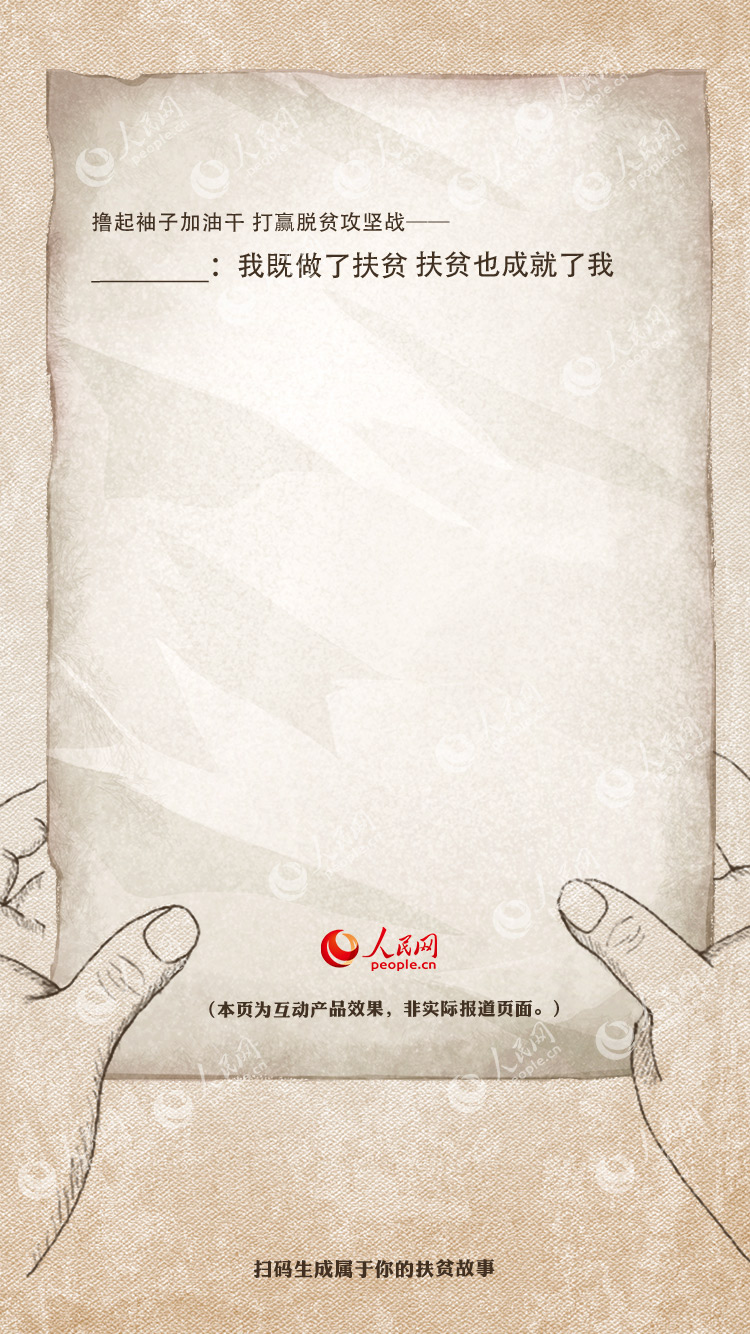
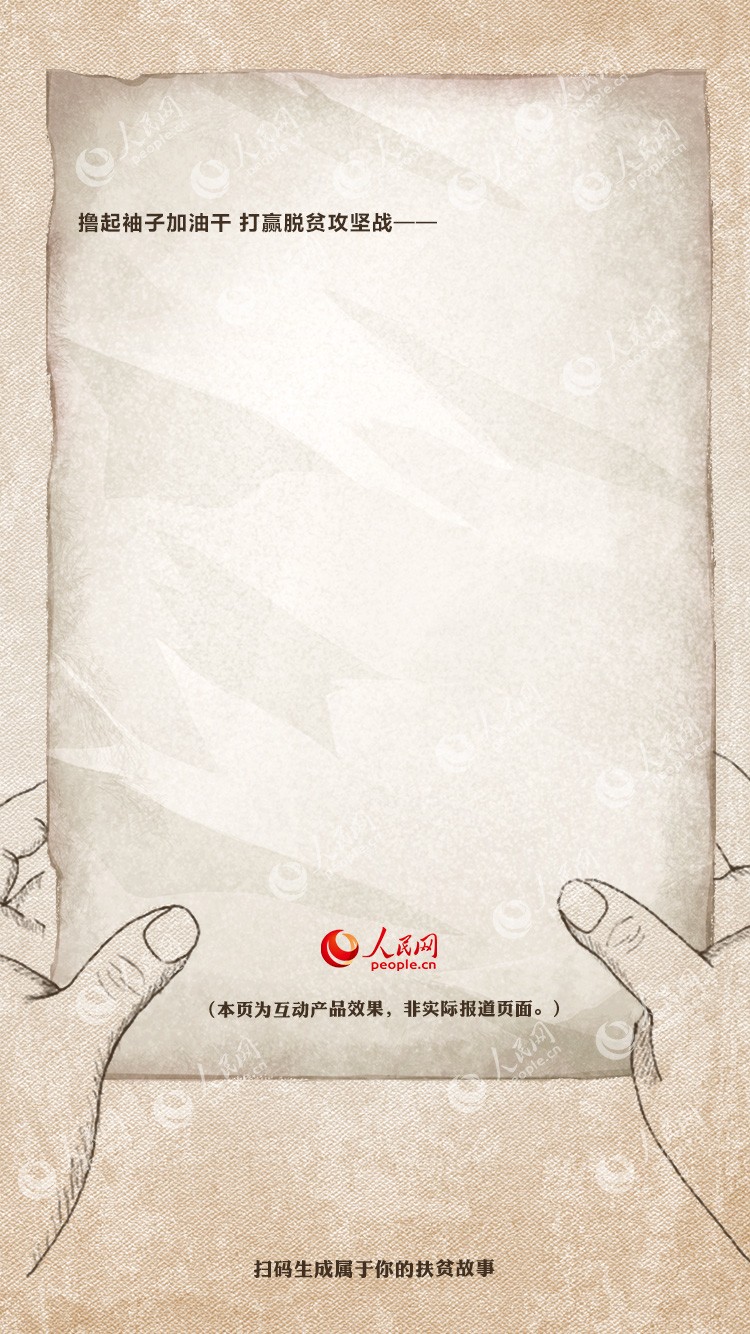
save

Changed region(s): [[0.092, 0.1537, 0.828, 0.2151]]

diff --git a/dist/index.html b/dist/index.html
@@ -36,23 +36,23 @@
     <!-- 页面[page2]-->
     <div class="page2 page" template="page2" style="display: none;"><div class="so so-0"><span class="so so-1">贵州</span><span class="so so-2">山西</span><span class="so so-3">新疆</span><span class="so so-4">安徽</span><span class="so so-5">陕西</span><span class="so so-6">山东</span><img class="so so-7" src="./static/resource/255.png" o-animation="shrink" o-tap="next('贵州')"><img class="so so-8" src="./static/resource/269.png" o-animation="shrink" o-tap="next('陕西')"><img class="so so-9" src="./static/resource/281.png" o-animation="shrink" o-tap="next('安徽')"><img class="so so-10" src="./static/resource/289.png" o-animation="shrink" o-tap="next('山东')"><img class="so so-11" src="./static/resource/301.png" o-animation="shrink" o-tap="next('山西')"><img class="so so-12" src="./static/resource/311.png" o-animation="shrink" o-tap="next('新疆')"></div></div>
     <!-- 页面[page3]-->
-    <div class="page3 page" template="page3" style="display: none;"><div class="so so-0"><img class="so so-1" src="./static/resource/96.png"><div class="so so-2"><img class="so so-3" src="./static/resource/test.gif"><img class="so so-4" src="./static/resource/97.png" o-tap="next('page4')"></div><div class="so so-5"><img class="so so-6" src="./static/resource/99.png"><img class="so so-7" src="./static/resource/101.png" o-tap="next"></div></div></div>
+    <div class="page3 page" template="page3" style="display: none;"><div class="so so-0"><img class="so so-1" src="./static/resource/96.png"><div class="so so-2"><img class="so so-3" src="./static/resource/98.png"><img class="so so-4" src="./static/resource/97.png" o-tap="next('到村民家走访，了解每一户的生活生产现状，挖掘村民需求，找到致贫根源。')"></div><div class="so so-5"><img class="so so-6" src="./static/resource/99.png"><img class="so so-7" src="./static/resource/101.png" o-tap="next('统计生产数据，了解当地风俗、气候、地理区委条件等，找到致富切入点。')"></div></div></div>
     <!-- 页面[page4]-->
     <div class="page4 page" template="page4" style="display: none;"><div class="so so-0"><img class="so so-1" src="./static/resource/page4-100.png"><img class="so so-2" src="./static/resource/page4-99.png"><img class="so so-3" src="./static/resource/page4-101.png"></div></div>
     <!-- 页面[page5]-->
-    <div class="page5 page" template="page5" style="display: none;"><div class="so so-0"><img class="so so-1" src="./static/resource/page5-100.png"><img class="so so-2" src="./static/resource/page5-101.png"><img class="so so-3" src="./static/resource/page5-107.png"><img class="so so-4" src="./static/resource/page5-108.png"><img class="so so-5" src="./static/resource/page5-109.png" o-tap="next"><img class="so so-6" src="./static/resource/page5-112.png" o-tap="next"><img class="so so-7" src="./static/resource/page5-113.png"></div></div>
+    <div class="page5 page" template="page5" style="display: none;"><div class="so so-0"><img class="so so-1" src="./static/resource/page5-100.png"><img class="so so-2" src="./static/resource/page5-101.png"><img class="so so-3" src="./static/resource/page5-107.png"><img class="so so-4" src="./static/resource/page5-108.png"><img class="so so-5" src="./static/resource/page5-109.png" o-tap="next('建设现代产业园，打造光伏发电基地。')"><img class="so so-6" src="./static/resource/page5-112.png" o-tap="next('搭建优质农产品推广平台，助力农业生产转型升级。')"><img class="so so-7" src="./static/resource/page5-113.png"></div></div>
     <!-- 页面[page6]-->
-    <div class="page6 page" template="page6" style="display: none;"><div class="so so-0"><img class="so so-1" src="./static/resource/page6-97.png"><img class="so so-2" src="./static/resource/page6-98.png" o-tap="next"><img class="so so-3" src="./static/resource/page6-99.png" o-tap="next"><img class="so so-4" src="./static/resource/page6-100.png"><img class="so so-7" src="./static/resource/page6-106.png"><img class="so so-8" src="./static/resource/page6-105.png"></div></div>
+    <div class="page6 page" template="page6" style="display: none;"><div class="so so-0"><img class="so so-1" src="./static/resource/page6-97.png"><img class="so so-2" src="./static/resource/page6-98.png" o-tap="next('联合相关机构开展培训班，组织督促村民参与学习，通过扶智来扶志，实现脱贫不返贫。')"><img class="so so-3" src="./static/resource/page6-99.png" o-tap="next('与大城市的农产品龙头企业建立合作，培养人才，形成产销一条龙，为村集体实现创收。')"><img class="so so-4" src="./static/resource/page6-100.png"><img class="so so-7" src="./static/resource/page6-106.png"><img class="so so-8" src="./static/resource/page6-105.png"></div></div>
     <!-- 页面[page7]-->
-    <div class="page7 page" template="page7" style="display: none;"><div class="so so-0"><img class="so so-1" src="./static/resource/page7-53.png"><img class="so so-2" src="./static/resource/page7-51.png" o-tap="next"><img class="so so-3" src="./static/resource/page7-49.png" o-tap="next"><img class="so so-4" src="./static/resource/page7-47.png"></div></div>
+    <div class="page7 page" template="page7" style="display: none;"><div class="so so-0"><img class="so so-1" src="./static/resource/page7-53.png"><img class="so so-2" src="./static/resource/page7-51.png" o-tap="next('亲自担任了村里的农产品代言人，参与直播带货，推动农产品销售，增加了村民们的收入。')"><img class="so so-3" src="./static/resource/page7-49.png" o-tap="next('为村里的农产品注册了品牌，成立了推广协会，进一步为村里打造“明星产品”')"><img class="so so-4" src="./static/resource/page7-47.png"></div></div>
     <!-- 页面[page8]-->
-    <div class="page8 page" template="page8" style="display: none;"><div class="so so-0"><img class="so so-1" src="./static/resource/88.png" o-tap="next"><img class="so so-2" src="./static/resource/87.png" o-tap="next"><img class="so so-3" src="./static/resource/86.png"><img class="so so-4" src="./static/resource/95.png"><img class="so so-5" src="./static/resource/94.png"><img class="so so-6" src="./static/resource/93.png"><img class="so so-7" src="./static/resource/92.png"></div></div>
+    <div class="page8 page" template="page8" style="display: none;"><div class="so so-0"><img class="so so-1" src="./static/resource/88.png" o-tap="next('联合相关机构开展培训班，组织督促村民参与学习，通过扶智来扶志，实现脱贫不返贫。')"><img class="so so-2" src="./static/resource/87.png" o-tap="next('与大城市的农产品龙头企业建立合作，培养人才，形成产销一条龙，为村集体实现创收。')"><img class="so so-3" src="./static/resource/86.png"><img class="so so-4" src="./static/resource/95.png"><img class="so so-5" src="./static/resource/94.png"><img class="so so-6" src="./static/resource/93.png"><img class="so so-7" src="./static/resource/92.png"></div></div>
     <!-- 页面[page9]-->
-    <div class="page9 page" template="page9" style="display: none;"><div class="so so-0"><img class="so so-1" src="./static/resource/page9-32.png"><img class="so so-2" src="./static/resource/page9-42.png" o-tap="next"><img class="so so-3" src="./static/resource/page9-41.png"></div></div>
+    <div class="page9 page" template="page9" style="display: none;"><div class="so so-0"><img class="so so-1" src="./static/resource/page9-32.png"><img class="so so-2" src="./static/resource/page9-42.png" o-tap="next" o-animation="shrink"><img class="so so-3" src="./static/resource/page9-41.png"></div></div>
     <!-- 页面[page10]-->
     <div class="page10 page" template="page10" style="display: none;"><div class="so so-0"><img class="so so-1" src="./static/resource/page10-112.png"><img class="so so-2" src="./static/resource/page10-111.png"><img class="so so-3 car-ani" src="./static/resource/page10-108.png"><img class="so so-4" src="./static/resource/page10-107.png"><img class="so so-6" src="./static/resource/page10-105.png"><img class="so so-7" src="./static/resource/page10-104.png"><div class="text">辗转几个小时车程后，你终于来到了位于（河北/山东/山西/陕西/贵州/安徽/新疆）的贫困村。</div></div></div>
     <!-- 页面[page11]-->
-    <div class="page11 page" template="page11" style="display: none;"><img class="bg" src="./static/resource/page11.jpg"></div></div>
+    <div class="page11 page" template="page11" style="display: none;"><img class="bg" src="./static/resource/page11.jpg"><h2>你的名字：我既做了扶贫 扶贫也成就了我</h2><p></p></div></div>
     
 
     <script src="http://tools.people.com.cn/libs/jquery/1.11.1/jquery-1.11.1.min.js" type="text/javascript"  charset="UTF-8"></script>
@@ -177,7 +177,8 @@ owo.script = {
         _this2.query('.so-7').setAttribute('o-animation', 'shrink');
       }, 3200);
     },
-    "next": function next(name) {
+    "next": function next(text) {
+      owo.state.text1 = text;
       owo.go('page4//fade/moveFromRight/true/fade/moveFromLeft');
     }
   },
@@ -190,26 +191,33 @@ owo.script = {
     }
   },
   "page5": {
-    "next": function next(name) {
+    "next": function next(text) {
+      owo.state.text2 = text;
       owo.go('page6//fade/moveFromRight/true/fade/moveFromLeft');
     }
   },
   "page6": {
-    "next": function next(name) {
+    "next": function next(text) {
+      owo.state.text3 = text;
       owo.go('page7//fade/moveFromRight/true/fade/moveFromLeft');
     }
   },
   "page7": {
-    "next": function next(name) {
+    "next": function next(text) {
+      owo.state.text4 = text;
       owo.go('page8//fade/moveFromRight/true/fade/moveFromLeft');
     }
   },
   "page8": {
-    "next": function next(name) {
+    "next": function next(text) {
+      owo.state.text5 = text;
       owo.go('page9//fade/moveFromRight/true/fade/moveFromLeft');
     }
   },
   "page9": {
+    "created": function created() {
+      owo.animate('fadeInRight', this.query('.so-1'));
+    },
     "next": function next(name) {
       owo.go('page11//fade/moveFromRight/true/fade/moveFromLeft');
     }
@@ -224,13 +232,19 @@ owo.script = {
       owo.animate('fadeIn', this.query('.text'), 2800);
       setTimeout(function () {
         owo.go('page3//fade/moveFromRight/true/fade/moveFromLeft');
-      }, 9000);
+      }, 7000);
     }
   },
-  "page11": {}
+  "page11": {
+    "created": function created() {
+      this.query('h2').innerHTML = owo.state.name + "\uFF1A\u6211\u65E2\u505A\u4E86\u6276\u8D2B \u6276\u8D2B\u4E5F\u6210\u5C31\u4E86\u6211";
+      this.query('p').innerHTML = "&emsp;&emsp;" + owo.state.name + "\u4E8E2019\u5E74\u6765\u5230\u7B2C\u4E8C\u9875\u5730\u533A\u7684\u8D2B\u56F0\u6751\uFF0C\u7ECF\u8FC7" + owo.state.text1 + "\u540E\uFF0C\u4E86\u89E3\u5230\u5F53\u5730\u4EA7\u4E1A\u8F6C\u578B\u5347\u7EA7\u8FEB\u5728\u7709\u776B,\u8FD8\u670927\u623788\u4EBA\u672A\u80FD\u8131\u8D2B\u3002\u4E3A\u4E86\u5E26\u9886\u6751\u6C11\u8131\u8D2B\uFF0C\u4F60\u7684\u540D\u5B57\u4ECE" + owo.state.text2 + "\u5165\u624B\uFF0C\u9010\u6E10\u627E\u5230\u4E86\u81F4\u5BCC\u65B9\u5411\u3002\u7ECF\u8FC7\u4E00\u5E74\u7684\u52AA\u529B\uFF0C\u4F60\u7684\u540D\u5B57\u5E26\u9886\u6751\u6C11\u4EEC" + owo.state.text3 + "\u3002<br>&emsp;&emsp;\u6295\u5165\u6276\u8D2B\u4E8B\u4E1A\uFF0C\u5C06\u4E00\u8154\u70ED\u8840\u94FA\u9648\u5728\u4E00\u7EBF\u5DE5\u4F5C\u4E0A\uFF0C" + owo.state.name + "\u7684\u5DE5\u4F5C\u9010\u6E10\u5F97\u5230\u4E86\u6751\u6C11\u4EEC\u7684\u8BA4\u53EF\u3002\u4E3A\u4E86\u8FBE\u5230\u8131\u8D2B\u4E0D\u8FD4\u8D2B\uFF0C\u5E26\u9886\u6751\u6C11\u8131\u8D2B\u653B\u575A\uFF0C\u4F60\u7684\u540D\u5B57\u8FD8" + owo.state.text4 + "\u3002<br>&emsp;&emsp;2020\u5E74\u662F\u5168\u9762\u5EFA\u6210\u5C0F\u5EB7\u793E\u4F1A\u76EE\u6807\u5B9E\u73B0\u4E4B\u5E74\uFF0C\u662F\u5168\u9762\u6253\u8D62\u8131\u8D2B\u653B\u575A\u6218\u7684\u6536\u5B98\u4E4B\u5E74\u3002\u4E45\u4E45\u4E3A\u529F\uFF0C\u5728\u4EFB\u671F\u7ED3\u675F\u524D\uFF0C" + owo.state.name + "\u8FD8\u51C6\u5907" + owo.state.text5 + "\uFF0C\u4ECE\u800C\u5E26\u9886\u6751\u6C11\u671D\u7740\u8131\u8D2B\u4E0D\u8FD4\u8D2B\u7684\u65B9\u5411\u8FC8\u8FDB\u3002<br>&emsp;&emsp;\u4E0E\u5168\u56FD280\u591A\u4E07\u6276\u8D2B\u9A7B\u6751\u5E72\u90E8\u4E00\u6837\uFF0C\u4F60\u7684\u540D\u5B57\u7528\u5B9E\u9645\u884C\u52A8\u5F70\u663E\u8D23\u4EFB\u4F7F\u547D\uFF0C\u7528\u811A\u6B65\u4E08\u91CF\u7956\u56FD\u7684\u571F\u5730\uFF0C\u7528\u6276\u8D2B\u5145\u5B9E\u7740\u81EA\u5DF1\u7684\u4EBA\u751F\u3002"; // owo.tool.typing(this.query('p'), )
+    }
+  }
 };
 </script>
 
     <script src="./static/js/toast.js" type="text/javascript"  charset="UTF-8"></script>
+    <script src="./static/js/typing.js" type="text/javascript"  charset="UTF-8"></script>
   </body>
 </html>

diff --git a/dist/static/js/typing.js b/dist/static/js/typing.js
@@ -1,0 +1,52 @@
+/**
+ * 打字机特效
+ * @param  {Dom} dom       容器
+ * @param  {string} text   字体内容
+ * @param  {number} time   打字间隔
+ */
+
+owo.tool.typing = function (dom, text, time, finish, index) {
+  owo.state.typing = true
+  if (!dom) {
+    console.error('第一个参数dom不能为空!')
+    return
+  }
+  if (!text) {
+    console.error('第二个参数text不能为空!')
+    return
+  }
+  time = time || 200
+  index = index || 0
+  function typing() {
+    if (index <= text.length) {
+      // 如果是标点符号为了更字然增加打字间隔
+      var tempTime = 0
+      if ([',', '，', '”', '’', '.'].includes(text[index - 1])) {
+        tempTime = 400
+      } else if (['。'].includes(text[index - 1])) {
+        tempTime = 1000
+      }
+      var showText = text.slice(0, index++)
+      if (text[index - 1] == '&') {
+        index = text.indexOf(';', index) + 1
+        showText = text.slice(0, index)
+      }
+      if (text[index - 1] == '<') {
+        index = text.indexOf('>', index) + 1
+        showText = text.slice(0, index)
+      }
+      dom.innerHTML = showText + '_';
+      setTimeout(function () {
+        if (owo.state.typing) owo.tool.typing(dom, text, time, finish, index)
+        else dom.innerHTML = text
+      }, time + tempTime)
+    }
+    else {
+      dom.innerHTML = text
+      owo.state.typing = false
+      // 完成回调
+      if (finish) finish()
+    }
+  }
+  typing()
+}

diff --git a/owo_modules/typing.js b/owo_modules/typing.js
@@ -1,0 +1,52 @@
+/**
+ * 打字机特效
+ * @param  {Dom} dom       容器
+ * @param  {string} text   字体内容
+ * @param  {number} time   打字间隔
+ */
+
+owo.tool.typing = function (dom, text, time, finish, index) {
+  owo.state.typing = true
+  if (!dom) {
+    console.error('第一个参数dom不能为空!')
+    return
+  }
+  if (!text) {
+    console.error('第二个参数text不能为空!')
+    return
+  }
+  time = time || 200
+  index = index || 0
+  function typing() {
+    if (index <= text.length) {
+      // 如果是标点符号为了更字然增加打字间隔
+      var tempTime = 0
+      if ([',', '，', '”', '’', '.'].includes(text[index - 1])) {
+        tempTime = 400
+      } else if (['。'].includes(text[index - 1])) {
+        tempTime = 1000
+      }
+      var showText = text.slice(0, index++)
+      if (text[index - 1] == '&') {
+        index = text.indexOf(';', index) + 1
+        showText = text.slice(0, index)
+      }
+      if (text[index - 1] == '<') {
+        index = text.indexOf('>', index) + 1
+        showText = text.slice(0, index)
+      }
+      dom.innerHTML = showText + '_';
+      setTimeout(function () {
+        if (owo.state.typing) owo.tool.typing(dom, text, time, finish, index)
+        else dom.innerHTML = text
+      }, time + tempTime)
+    }
+    else {
+      dom.innerHTML = text
+      owo.state.typing = false
+      // 完成回调
+      if (finish) finish()
+    }
+  }
+  typing()
+}

diff --git a/dist/static/css/owo.core.css b/dist/static/css/owo.core.css
@@ -760,8 +760,8 @@ li {
 }
 
 .page10 .car-ani {
-  -webkit-animation: car 8s 1 0s linear;
-          animation: car 8s 1 0s linear;
+  -webkit-animation: car 6s 1 0s linear;
+          animation: car 6s 1 0s linear;
 }
 .page11 .bg {
   position: absolute;
@@ -770,6 +770,27 @@ li {
   right: 0;
   bottom: 0;
   margin: auto;
+}
+
+.page11 h2 {
+  position: absolute;
+  left: 75px;
+  top: 337px;
+  font-size: 24px;
+  color: #3e3123;
+  line-height: 30px;
+}
+
+.page11 p {
+  position: absolute;
+  top: 380px;
+  width: 600px;
+  left: 0;
+  right: 0;
+  margin: auto;
+  font-size: 22px;
+  line-height: 32px;
+  color: #3e3123;
 }
 /* 页面切换动画 */
 .o-page-fade {

diff --git a/dist/static/js/owo.core.js b/dist/static/js/owo.core.js
@@ -1,4 +1,4 @@
-// Tue Sep 15 2020 16:59:53 GMT+0800 (GMT+08:00)
+// Wed Sep 16 2020 14:00:49 GMT+0800 (GMT+08:00)
 var owo = {tool: {},state: {},};
 /* 方法合集 */
 var _owo = {
